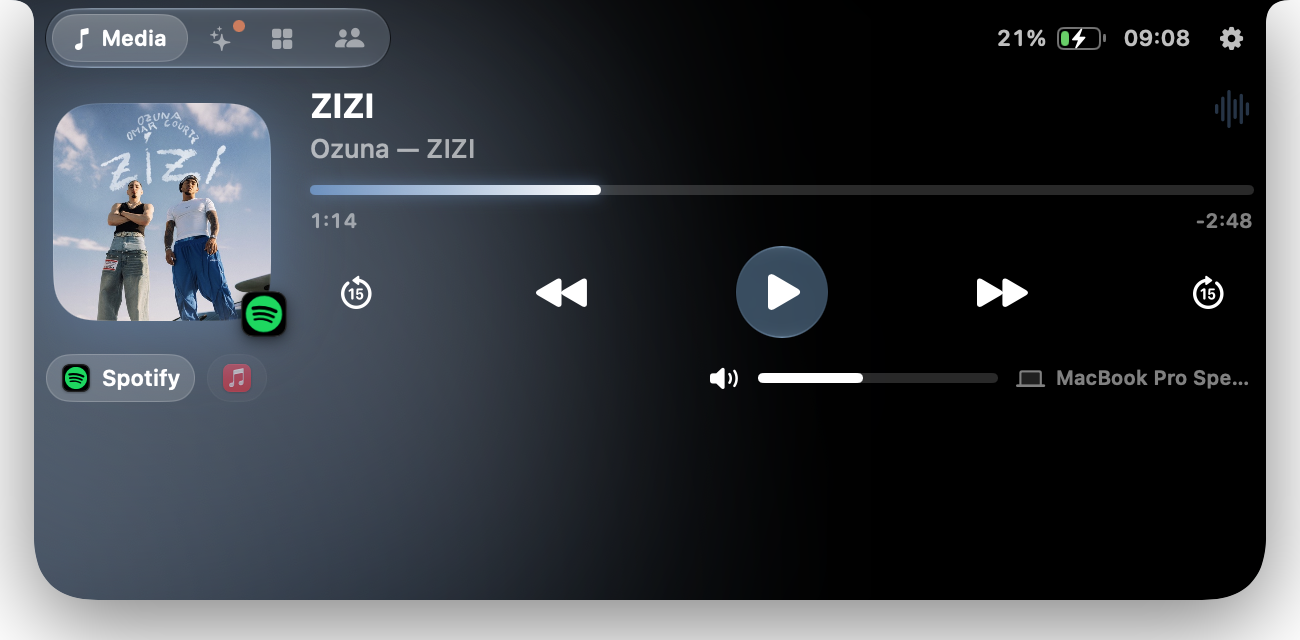
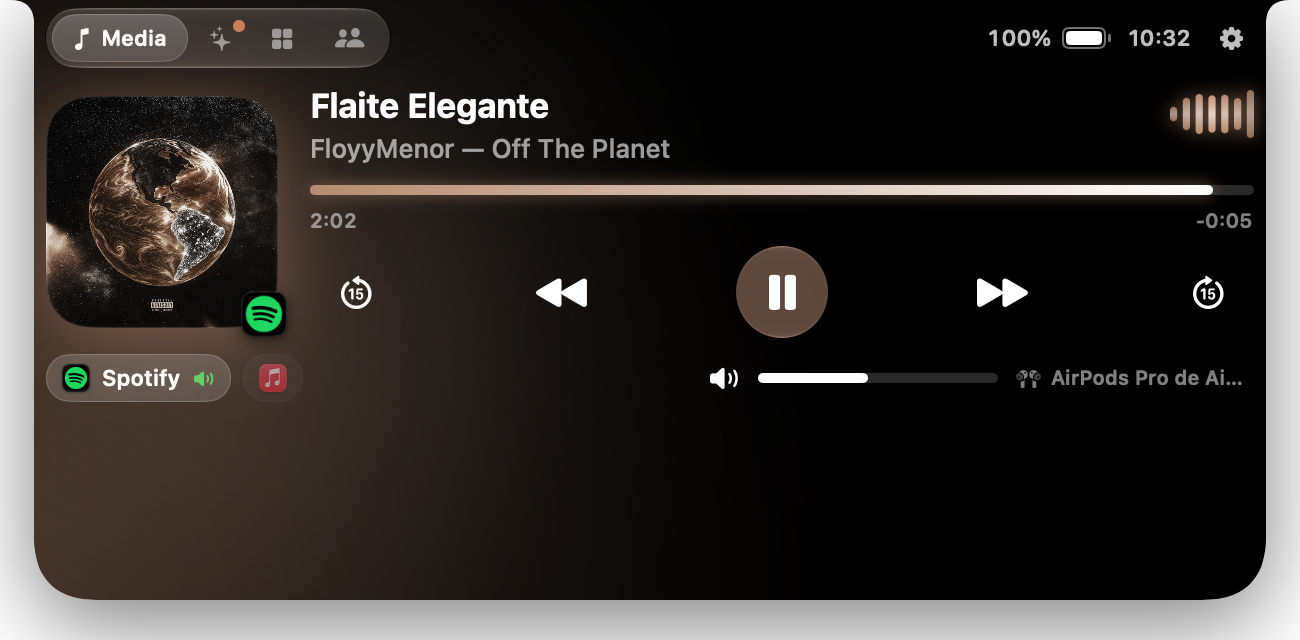
docs: new screenshots and a one-line install
The README opens with the Media page and its live waveform, and the
notch shared by Claude Code and the music. Old media (the demo GIF
and video, the compact and menu bar images) is gone. Install now
downloads the latest release in one Terminal command, and explains
"Open Anyway" for browser downloads until the app is notarized.

diff --git a/README.md b/README.md
@@ -13,9 +13,11 @@
 
 <br>
 
-<a href="demo/demo.mp4"><img src="demo/demo.gif" width="720" alt="LiveIsland: the Media page with Spotify, the Agents page with Claude Code and Codex limits, the Activity page, then Recently Played"></a>
+<img src="demo/island-media.png" width="720" alt="The Media page: Spotify's track with its cover glow, a live waveform beside the title, scrubber, controls and volume">
 
-<sub>Media, AI agents, activity and Recently Played. <a href="demo/demo.mp4">Watch the full video</a>, with Settings and the menu bar panel.</sub>
+<img src="demo/island-split.png" width="560" alt="The closed island shared by two things: Claude Code on the left, the music's waveform on the right">
+
+<sub>The Media page with its live waveform, and the notch shared by Claude Code and the music, like the iPhone's.</sub>
 
 </div>
 
@@ -26,10 +28,6 @@
 <table>
   <tr>
     <td align="center" width="33%">
-      <img src="demo/island-media.png" alt="Media page: Spotify track with artwork glow, scrubber, controls, volume and Recently Played"><br>
-      <sub><b>Media</b><br>Any player, glow from the cover, Up Next</sub>
-    </td>
-    <td align="center" width="33%">
       <img src="demo/island-agents.png" alt="Agents page: Claude Code sessions with states, and rings for the 5-hour and weekly limits of Claude Code and Codex"><br>
       <sub><b>Agents</b><br>Sessions, states, real usage limits</sub>
     </td>
@@ -37,17 +35,7 @@
       <img src="demo/island-activity.png" alt="Activity page: timer presets, calendar, battery, AirPods, microphone and camera tiles"><br>
       <sub><b>Activity</b><br>Timer, calendar, battery, devices, privacy</sub>
     </td>
-  </tr>
-  <tr>
-    <td align="center">
-      <img src="demo/island-compact.jpg" alt="The closed island: Claude working for 23 seconds, the microphone in use, a session done"><br>
-      <sub><b>In the notch</b><br>Working, microphone in use, done</sub>
-    </td>
-    <td align="center">
-      <img src="demo/menu-bar.jpg" width="220" alt="Menu bar panel: mini player, quick toggles, timer and Open Island"><br>
-      <sub><b>Menu bar</b><br>Mini player and quick switches</sub>
-    </td>
-    <td align="center">
+    <td align="center" width="33%">
       <img src="demo/settings-agents.png" alt="Settings window, AI Agents page: agent toggles, sound, and how to switch Claude accounts"><br>
       <sub><b>Settings</b><br>Everything, in one window</sub>
     </td>
@@ -71,7 +59,7 @@
 - Copy the command that resumes a session
 - **Usage limits as rings**: Claude Code's real 5-hour and weekly percentages (one click to set up, see below), Codex's 5-hour and weekly limits, tokens this window and today
 - Optional sound when an agent finishes or stops to ask you something
-- **Several Claude and Codex accounts**: each one's limits side by side, an alert in the notch when the account in use runs out, and one-tap switching (see below)
+- **Several Claude and Codex accounts**: each one's limits side by side, an alert in the notch when the account in use runs out, and one-tap switching, also from the menu bar (see below)
 
 **Calls, devices and the rest**
 - Call timer for FaceTime, Zoom, Teams, Discord, WhatsApp, Slack and more
@@ -79,6 +67,7 @@
 - **AirPods** battery (left, right, case) when they connect; charging, and time left on battery
 - Quick **timers**, your next **calendar** events, and a heads-up in the notch 10 minutes before
 - The most important thing wins the notch: a call beats an agent that needs you, which beats music
+- **Two things at once**: while music plays, an agent or a timer shares the notch with the waveform, like the iPhone
 
 **Everyday use**
 - Opens on hover (or click), closes when you move away; clicks pass straight through everywhere else
@@ -103,12 +92,6 @@ Prefer to do it yourself? The lines are in [`scripts/claude-statusline-snippet.s
     <td align="center" width="50%">
       <img src="demo/island-accounts-codex.png" alt="Accounts tab on Codex: the ChatGPT account in use, its Pro Lite plan and its weekly limit"><br>
       <sub><b>Codex</b><br>ChatGPT logins, with their plan and limits</sub>
-    </td>
-  </tr>
-  <tr>
-    <td align="center" colspan="2">
-      <img src="demo/menu-bar-accounts.jpg" width="300" alt="Menu bar panel with the account in use, its limits, and a Switch menu listing the other accounts"><br>
-      <sub><b>Menu bar</b><br>Switch without opening the island</sub>
     </td>
   </tr>
 </table>
@@ -159,13 +142,24 @@ Nothing animates frame by frame unless you can see it: spinners and waveforms ar
 
 ## Install
 
+**Download** the latest release (macOS 14 or later, Apple silicon and Intel) and open it, in one Terminal command:
+
 ```bash
-git clone https://github.com/<your-username>/LiveIsland.git
+curl -fL https://github.com/charonova/LiveIsland/releases/latest/download/LiveIsland.zip -o /tmp/LiveIsland.zip \
+  && mkdir -p ~/Applications && ditto -xk /tmp/LiveIsland.zip ~/Applications && open ~/Applications/LiveIsland.app
+```
+
+LiveIsland isn't notarized by Apple yet (that needs a paid developer account), so a copy downloaded in a browser gets "Apple could not verify LiveIsland" the first time. Installed with the command above, it opens right away. If you downloaded [the zip](https://github.com/charonova/LiveIsland/releases/latest) in a browser, unzip it, move LiveIsland to Applications, open it once, then click **Open Anyway** in **System Settings › Privacy & Security**.
+
+**Build it yourself** instead, with the Xcode Command Line Tools and CMake (`brew install cmake`, for the media adapter):
+
+```bash
+git clone https://github.com/charonova/LiveIsland.git
 cd LiveIsland
 ./scripts/install.sh   # builds, copies to ~/Applications and launches
 ```
 
-You need the Xcode Command Line Tools and CMake (`brew install cmake`), which builds the media adapter. macOS will ask for:
+macOS will ask for:
 
 - **Calendar**, for your next events
 - **Bluetooth**, for AirPods battery
